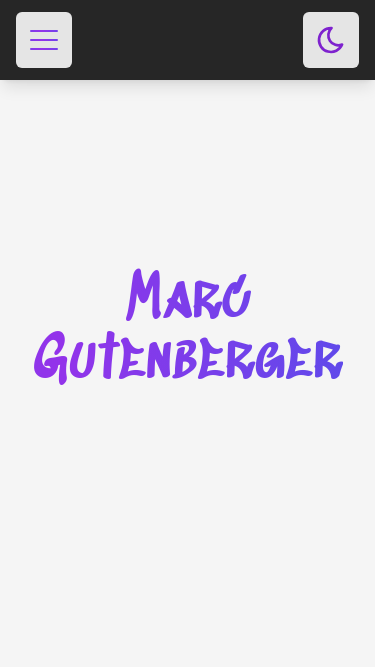
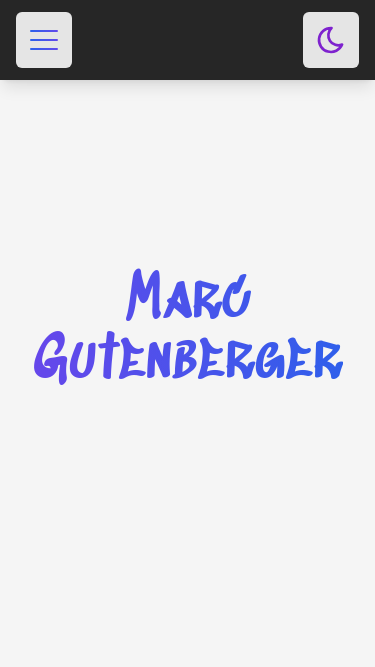
update screenshots

Changed region(s): [[0.088, 0.4798, 0.9093, 0.5997], [0.3227, 0.3898, 0.6747, 0.4798], [0.088, 0.03, 0.1467, 0.09]]

diff --git a/utils/screenshot.ts b/utils/screenshot.ts
@@ -1,30 +1,37 @@
 import puppeteer from 'pptr';
 
-const browser = await puppeteer.launch({
-	executablePath: '/usr/bin/google-chrome',
-});
+async function createScreenshots() {
+	const browser = await puppeteer.launch({
+		executablePath: '/usr/bin/google-chrome',
+	});
 
-const page = await browser.newPage();
+	const page = await browser.newPage();
 
-await page.goto('https://gutenfries.deno.dev');
+	await page.goto('https://gutenfries.deno.dev');
 
-await page.setViewport({ width: 1080, height: 720 });
-await page.screenshot({ path: 'static/images/screenshots/screenshot-desktop-light.png' });
-// click the theme button
-await page.click('.theme-button');
-await page.screenshot({ path: 'static/images/screenshots/screenshot-desktop-dark.png' });
-await page.click('.theme-button');
+	await page.setViewport({ width: 1080, height: 720 });
+	await page.screenshot({ path: 'static/images/screenshots/screenshot-desktop-light.png' });
+	// click the theme button, and wait for the the theme to change (300ms)
+	await page.click('.theme-mode');
+	await page.waitForTimeout(500);
+	await page.screenshot({ path: 'static/images/screenshots/screenshot-desktop-dark.png' });
+	await page.click('.theme-mode');
+	await page.waitForTimeout(500);
 
-await page.setViewport({ width: 375, height: 667 }); // iPhone 7
-await page.screenshot({ path: 'static/images/screenshots/screenshot-mobile-1-light.png' });
-await page.click('.theme-button');
-await page.screenshot({ path: 'static/images/screenshots/screenshot-mobile-1-dark.png' });
-await page.click('.theme-button');
+	await page.setViewport({ width: 375, height: 667 }); // iPhone 7
+	await page.screenshot({ path: 'static/images/screenshots/screenshot-mobile-1-light.png' });
+	await page.click('.theme-mode');
+	await page.waitForTimeout(500);
+	await page.screenshot({ path: 'static/images/screenshots/screenshot-mobile-1-dark.png' });
+	await page.click('.theme-mode');
+	await page.waitForTimeout(500);
 
-await page.setViewport({ width: 390, height: 844 }); // iPhone 14
-await page.screenshot({ path: 'static/images/screenshots/screenshot-mobile-2-light.png' });
-await page.click('.theme-button');
-await page.screenshot({ path: 'static/images/screenshots/screenshot-mobile-2-dark.png' });
-await page.click('.theme-button');
+	await page.setViewport({ width: 390, height: 844 }); // iPhone 14
+	await page.screenshot({ path: 'static/images/screenshots/screenshot-mobile-2-light.png' });
+	await page.click('.theme-mode');
+	await page.waitForTimeout(500);
+	await page.screenshot({ path: 'static/images/screenshots/screenshot-mobile-2-dark.png' });
+	await page.click('.theme-mode');
 
-await browser.close();
+	await browser.close();
+}

diff --git a/components/Head.tsx b/components/Head.tsx
@@ -6,7 +6,8 @@ interface HeadProps {
 }
 
 function Head({ PageProps }: HeadProps) {
-	const OGImageUrl = new URL(asset('/images/screenshot.png'), PageProps.url).href;
+	const OGImageUrl =
+		new URL(asset('/images/screenshots/screenshot-desktop-dark.png'), PageProps.url).href;
 	const OGDescription =
 		'pub struct Marc { name: &str, email: String, loves_dinosaurs: bool, expertise: Vec<&str>, } ...';
 	const OGTitle = 'Marc Gutenberger';

diff --git a/README.md b/README.md
@@ -32,7 +32,7 @@
 [![MIT License](https://img.shields.io/github/license/gutenfries/gutenfries.deno.dev.svg)](https://github.com/gutenfries/gutenfries.deno.dev/blob/main/LICENSE.md)
 [![deno-tests](https://github.com/gutenfries/gutenfries.deno.dev/actions/workflows/deno-tests.yml/badge.svg)](https://github.com/gutenfries/gutenfries.deno.dev/actions/workflows/deno-tests.yml)
 
-![screenshot](static/images/screenshot.png)
+![screenshot](static/images/screenshots/screenshot-desktop-dark.png)
 
 <p align="right">(<a href="#readme-top">back to top</a>)</p>
 
